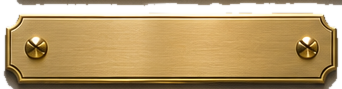
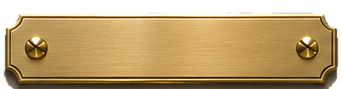
Candle: put the back disc in the corner, and lay the page out to the screen you can actually see
Four-device testing turned up two faults underneath most of what was found:

- candler was the only page on the site without a #backlink{position:fixed}
  rule, so the brass back disc stood in the page's own flow as a 38px block,
  shoving the candle down and pushing the readout line off the bottom of every
  screen, desktop included.
- the page was height:100vh with overflow hidden. On a phone or tablet that is
  the whole screen with the browser's address bar counted as if it weren't
  there, so the controls sat under it unreachable: both pills on a Kindle Fire,
  the second pill (candle size and type) on a 3in phone. It now lays out to
  innerHeight, held steady while a pin's time field has focus so an on-screen
  keyboard can't collapse the candle.

Also: tighten the first pill below 320px so the snooze can't hang off its right
edge, and clear six rows of stray background from the top of the natura plate,
which drew as a pale bar above it on the case and on every plate popup.

Claude-Session: https://claude.ai/code/session_01KYCteMLM2FFxnmEvERSy24

Changed region(s): [[0.0292, 0.0, 1.0, 0.0674]]

diff --git a/candler/index.html b/candler/index.html
@@ -52,10 +52,27 @@
     overflow: hidden;
   }
 
+  /* The way back sits in the top-left corner, fixed, mirroring the shelf disc
+     opposite it. Every other piece on the site has this rule; candler was the
+     only one without it, so its disc stood in the page's own flow at 0,0 as a
+     38px-tall block -- shoving the whole candle down 38px and pushing the last
+     38px of the page (the readout, and part of the pin list) off the bottom of
+     every screen there is. */
+  #backlink {
+    position: fixed;
+    top: 18px;
+    left: 22px;
+    z-index: 50;
+    opacity: 0.55;
+    transition: opacity 0.3s ease;
+  }
+  #backlink:hover { opacity: 0.95; }
+
   .stage {
     position: relative;
     width: 100%;
     height: 100vh;
+    height: calc(var(--vh, 1vh) * 100);
     display: flex;
     flex-direction: column;
     align-items: center;
@@ -83,6 +100,7 @@
     width: min(640px, 78vw);
     height: 100%;
     max-height: 78vh;
+    max-height: calc(var(--vh, 1vh) * 78);
     overflow: visible;
   }
 
@@ -198,7 +216,17 @@
     /* the candle itself: same proportions (SVG's own aspect-ratio
        scaling keeps it exact), just sized up so the wax nearly
        touches the phone's left and right edges */
-    svg#scene { width: 98vw; max-height: 80vh; }
+    svg#scene { width: 98vw; max-height: 80vh; max-height: calc(var(--vh, 1vh) * 80); }
+  }
+
+  /* A 3in phone is 240px across, and there the first pill runs 11px wider than
+     the screen the moment the timer is on and the snooze joins the row -- so the
+     snooze, being last in it, sat off the right-hand edge of a pill whose
+     sideways scrollbar is deliberately hidden. Tighten the row rather than let a
+     control hide behind the edge. */
+  @media (max-width: 320px) {
+    .panel { gap: 6px; padding: 8px 9px; }
+    input[type=range] { width: 40px; }
   }
 
   #repeatCtrl { transition: opacity 0.25s ease, width 0.25s ease; }
@@ -739,6 +767,27 @@
    stop the others, and you can keep adding pins (up to the limit)
    any time while the candle burns.
    ============================================================ */
+
+/* ---------- the height of the screen you can actually see ----------
+   A phone or tablet browser reports 100vh as the WHOLE screen, with its own
+   address bar counted as if it weren't there. This page is height:100vh with
+   overflow hidden, so the last inch of it sat underneath that bar with no way
+   to scroll to it: on a Kindle Fire that was both control pills (no menu at
+   all), on a 3in phone the second pill -- which is the candle's own size and
+   type, so no candle could be set. innerHeight is the honest number on every
+   browser there is, old ones included, so the page measures it and lays itself
+   out to that. Re-measured on resize and rotation, but NOT while a pin's time
+   field has focus: an on-screen keyboard shrinks innerHeight, and the candle
+   must not collapse under someone typing into it. */
+function setVisibleHeight() {
+  const el = document.activeElement;
+  if (el && (el.tagName === 'INPUT' && el.type !== 'range' && el.type !== 'checkbox')) return;
+  document.documentElement.style.setProperty('--vh', (window.innerHeight / 100) + 'px');
+}
+setVisibleHeight();
+window.addEventListener('resize', setVisibleHeight);
+window.addEventListener('orientationchange', () => setTimeout(setVisibleHeight, 120));
+document.addEventListener('focusout', () => setTimeout(setVisibleHeight, 60));
 
 // ---------- DOM ----------
 const sizeSlider     = document.getElementById('sizeSlider');

diff --git a/CLAUDE.md b/CLAUDE.md
@@ -51,7 +51,12 @@ the picture; this one carries her own plates as separate cut-outs — `shelfplat
 Cormorant: engraving wants even stroke weight, and Cormorant's hairlines vanish at the size a
 shelf plate allows. **Each plate is cut to the length of its own word**, which is why `plateW`
 is per shelf. Re-cutting is only needed if a group is renamed or the lettering resized; the
-sheet of ten blank lengths she generated is in her `daidle` Drive folder.
+sheet of ten blank lengths she generated is in her `daidle` Drive folder. **`shelfplate-natura.png`
+carried six rows of its own background above the plate**, opaque where the other four fade to
+nothing, and stretched into a 22px-tall box that drew as a pale bar hanging over the plate —
+on the case itself and on every page's plate popup, since all 20 pages use the same file. She
+caught it on the popup. Cleared Aug 2026; the plate's own pixels weren't touched. If a plate is
+ever re-cut, check the top rows are transparent before putting it in.
 
 ### The pages
 
@@ -82,7 +87,22 @@ thing?* That is a yes or a no.
 | File | On landing page? | Done? | What it is |
 |------|:---:|:---:|------------|
 | `index.html` | — | — | Landing page: the apothecary shelf ("sagne"), five shelves, all 20 pieces |
-| `candler/index.html` | ✅ | ✅ | *Sagne Candle* — an interactive candle. `candler_5.html` is an alternate version (not linked)<br>**Done** — "as perfect as I can make it without overhauling the actual candle itself." |
+| `candler/index.html` | ✅ | ✅ | *Sagne Candle* — an interactive candle. `candler_5.html` is an alternate version (not linked)<br>**Done** — "as perfect as I can make it without overhauling the actual candle itself."<br>Aug 2026 it was the first piece put through her four-device test (Mac, Windows tablet,
+Kindle Fire, Jelly Star), and two faults under it accounted for most of what she found. **candler was the only
+page on the site without the `#backlink{position:fixed;top:18px;left:22px}` rule** — the generated back-disc
+block only says what the disc looks like and assumes the page already places it, so here the brass disc stood
+in the page's own flow as a 38px-tall block at 0,0, shoving the whole candle down and pushing the last 38px of
+the page off the bottom. That is why the readout line under the controls was invisible **on every device
+including her Mac**, not just the small ones. And the page was `height:100vh` with `overflow:hidden`: on a
+phone or tablet `100vh` is the whole screen *with the browser's own address bar counted as though it weren't
+there*, and with nothing able to scroll, whatever lands under that bar is simply unreachable. On the Kindle
+Fire that was both control pills — no menu at all — and on the 3in Jelly Star the second pill, which carries the
+candle's size and type, so **no candle could be set**. It now lays out to `innerHeight`, which is the honest
+number on every browser there is, old ones included; re-measured on resize and rotation but deliberately
+**not while a pin's time field has focus**, because an on-screen keyboard shrinks `innerHeight` and would
+collapse the candle under someone typing a time into it. Below 320px the first pill is also tightened, or the
+snooze — last in the row once the timer is on — hangs 11px off the right-hand edge of a pill whose sideways
+scrollbar is hidden. |
 | `roller/index.html` | ✅ | ✅ | *Roller* — a wooden tray you tilt to roll a small object around (sea-glass pebble, disc, or jellybean stone); tilt-controlled like `galileo`/`windower`'s location search but via device orientation or mouse<br>**Done**, pending her own testing of the bean's weave and the spin off a wall. Deliberately unscored: "there's other things like it, but none really do what it does." |
 | `lamp/index.html` | ✅ | ✅ | An oil lamp — trim the wick's shape and height, and the flame follows. A fuel level you find by *tapping* the base is designed but not built; the note in the file records which way the pitch must go<br>**Done** as it stands — the tap-for-fuel idea is recorded as a future build, not a gap in it. |
 | `warmler/index.html` | ✅ |  | A warming plate with selectable metal **finishes** (brass, copper, aged brass/copper, gold, silver, diamond-plate). `warmler-picker-concept.html` is a finish-picker concept (not linked) |
